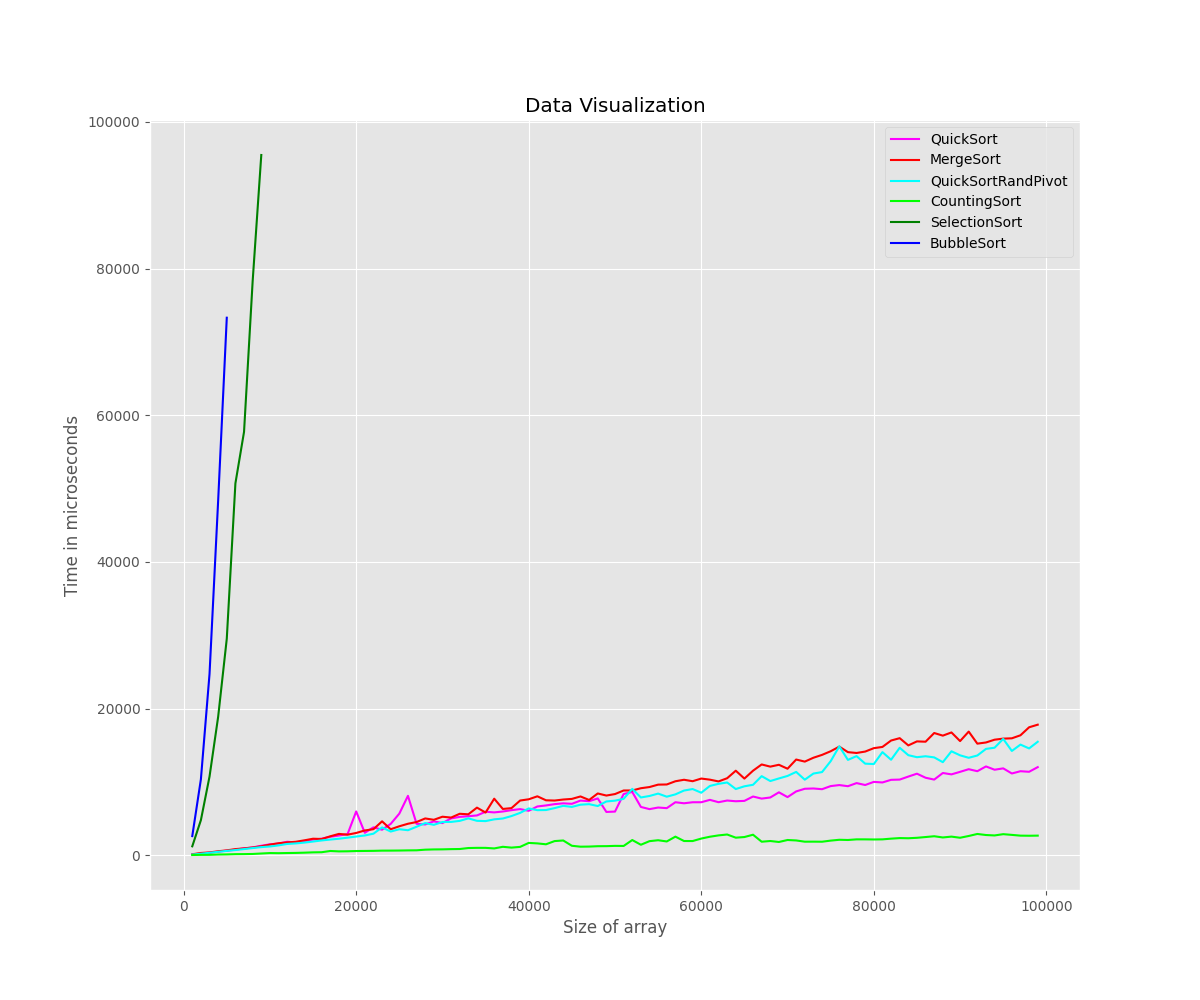
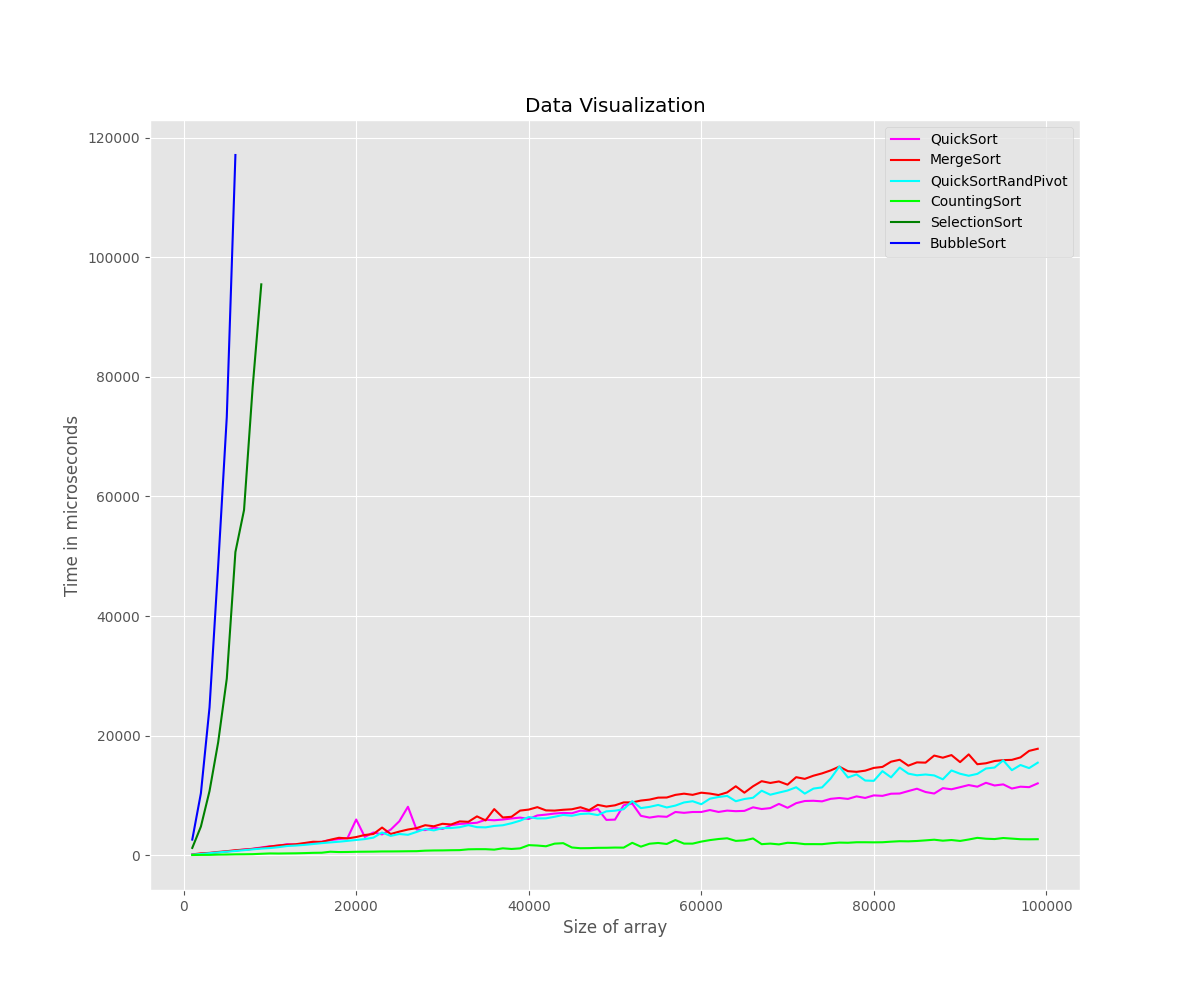
New

diff --git a/drawing_graphs.py b/drawing_graphs.py
@@ -18,7 +18,7 @@ plt.plot(size, data["QuickSortRandPivot"], color='aqua', label='QuickSortRandPiv
 plt.plot(size, data["CountingSort"], color='lime', label='CountingSort')
 plt.plot(size[:int(len(size)/10)], data["SelectionSort"], color='green', label='SelectionSort')
 
-plt.plot(size[:5], data["BubbleSort"][:5], color='b', label='BubbleSort')
+plt.plot(size[:6], data["BubbleSort"][:6], color='b', label='BubbleSort')
 
 
 plt.xlabel('Size of array')
